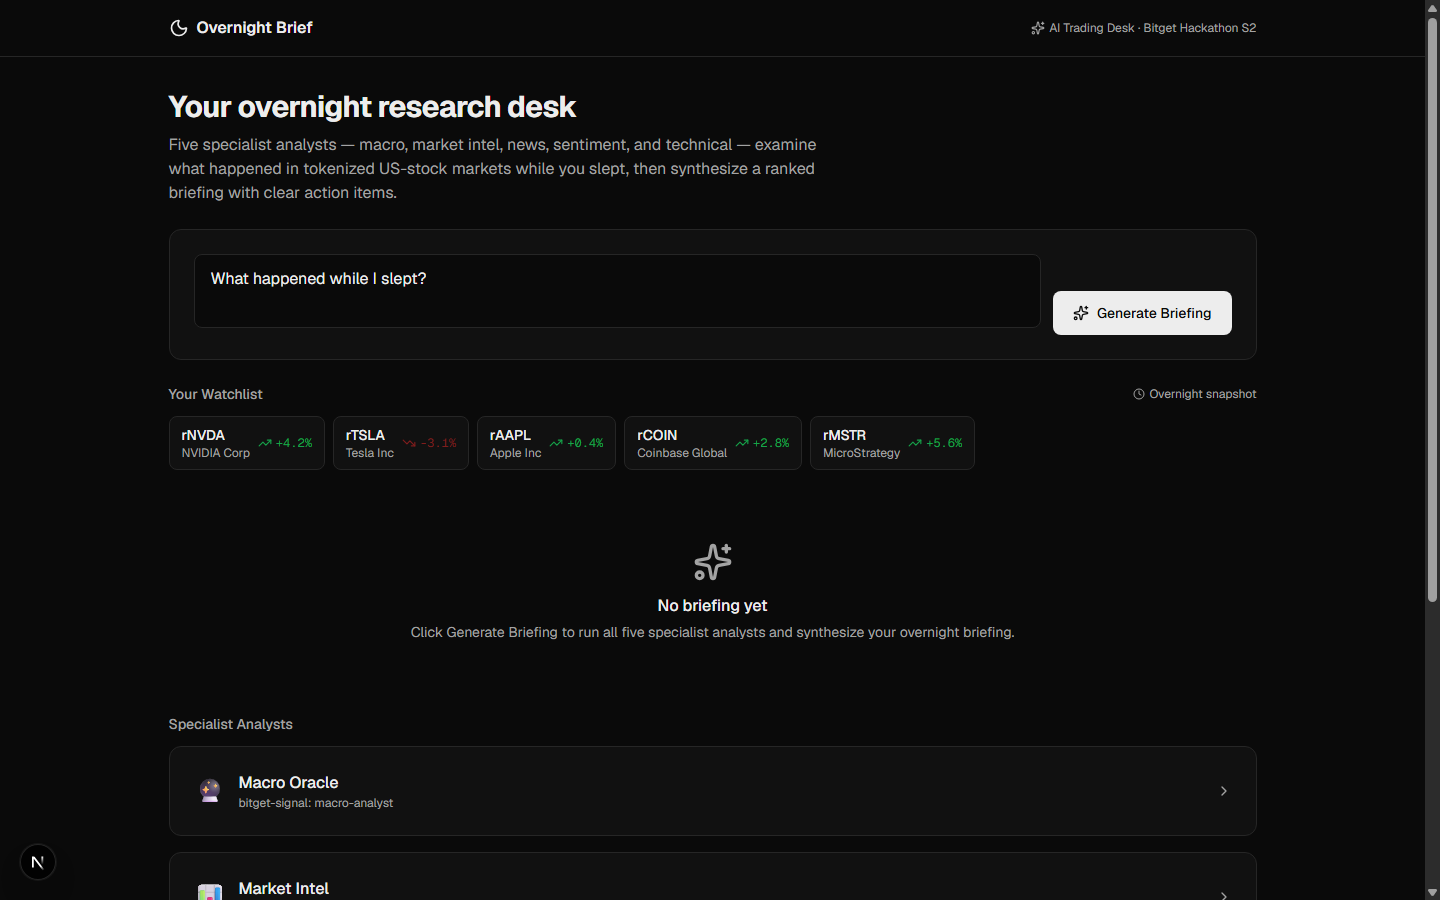
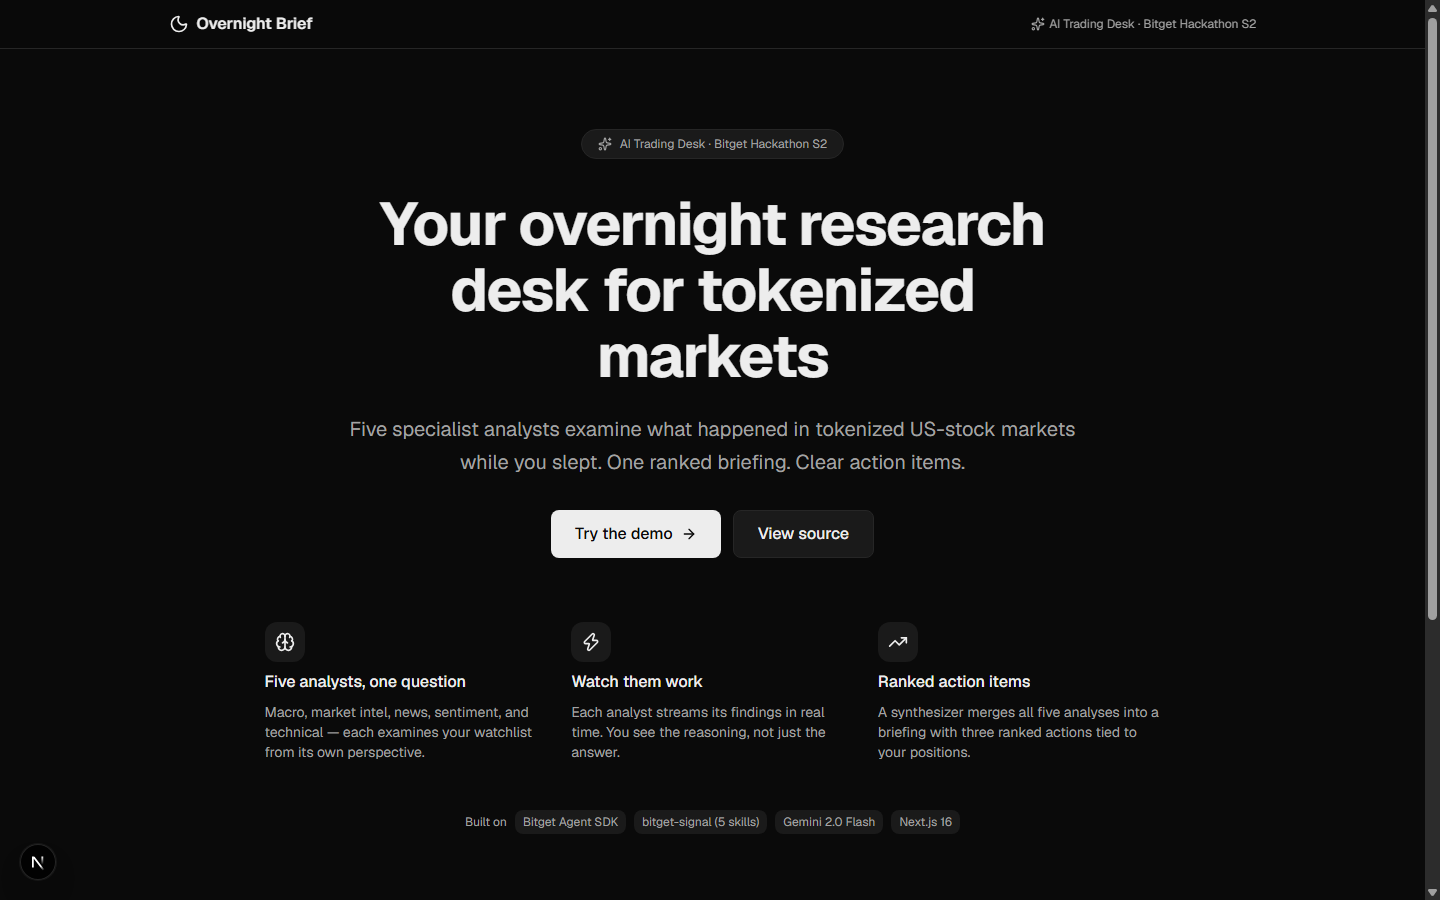
Landing section with hero, how-it-works, and hero↔app transition.
- Hero with headline, subhead, "Try the demo" CTA, and 3-step how-it-works
- Both hero and workbench server-rendered; transition is CSS opacity+transform only
- URL reflects state via ?app=1; direct arrival renders tool with no hero flash
- Logo click returns to hero; back button supported via popstate listener
- prefers-reduced-motion gives instant swap (globals.css)
- Updated hero screenshot showing landing page

Generated with [Devin](https://devin.ai)

diff --git a/src/components/landing-shell.tsx b/src/components/landing-shell.tsx
@@ -1,0 +1,203 @@
+"use client";
+
+import { useState, useEffect, useCallback } from "react";
+import { Moon, Sparkles, ArrowRight, TrendingUp, Brain, Zap } from "lucide-react";
+import { cn } from "@/lib/utils";
+import { Button } from "@/components/ui";
+
+// ─── Hero section ─────────────────────────────────────────────────
+
+function Hero({ onTryDemo }: { onTryDemo: () => void }) {
+  return (
+    <div className="flex flex-col items-center gap-8 py-12 sm:py-20 text-center">
+      {/* Badge */}
+      <div className="inline-flex items-center gap-2 rounded-full border border-border bg-muted px-4 py-1.5 text-xs text-muted-foreground">
+        <Sparkles className="h-3.5 w-3.5" aria-hidden="true" />
+        <span>AI Trading Desk · Bitget Hackathon S2</span>
+      </div>
+
+      {/* Headline */}
+      <div className="max-w-3xl">
+        <h1 className="text-4xl sm:text-5xl lg:text-6xl font-bold tracking-tight text-foreground leading-[1.1]">
+          Your overnight research desk for tokenized markets
+        </h1>
+        <p className="mt-6 text-lg sm:text-xl text-muted-foreground leading-relaxed">
+          Five specialist analysts examine what happened in tokenized US-stock
+          markets while you slept. One ranked briefing. Clear action items.
+        </p>
+      </div>
+
+      {/* CTA */}
+      <div className="flex flex-col sm:flex-row items-center gap-3">
+        <Button size="lg" onClick={onTryDemo} className="w-full sm:w-auto">
+          Try the demo
+          <ArrowRight className="h-4 w-4" aria-hidden="true" />
+        </Button>
+        <a
+          href="https://github.com/DruxAMB/overnight-brief"
+          target="_blank"
+          rel="noopener noreferrer"
+          className="w-full sm:w-auto"
+        >
+          <Button variant="secondary" size="lg" className="w-full">
+            View source
+          </Button>
+        </a>
+      </div>
+
+      {/* How it works */}
+      <div className="mt-8 w-full max-w-4xl">
+        <div className="grid gap-6 sm:grid-cols-3 text-left">
+          <div className="flex flex-col gap-2">
+            <div className="flex h-10 w-10 items-center justify-center rounded-lg bg-muted">
+              <Brain className="h-5 w-5 text-foreground" aria-hidden="true" />
+            </div>
+            <h3 className="font-medium text-foreground">Five analysts, one question</h3>
+            <p className="text-sm text-muted-foreground">
+              Macro, market intel, news, sentiment, and technical — each examines
+              your watchlist from its own perspective.
+            </p>
+          </div>
+          <div className="flex flex-col gap-2">
+            <div className="flex h-10 w-10 items-center justify-center rounded-lg bg-muted">
+              <Zap className="h-5 w-5 text-foreground" aria-hidden="true" />
+            </div>
+            <h3 className="font-medium text-foreground">Watch them work</h3>
+            <p className="text-sm text-muted-foreground">
+              Each analyst streams its findings in real time. You see the
+              reasoning, not just the answer.
+            </p>
+          </div>
+          <div className="flex flex-col gap-2">
+            <div className="flex h-10 w-10 items-center justify-center rounded-lg bg-muted">
+              <TrendingUp className="h-5 w-5 text-foreground" aria-hidden="true" />
+            </div>
+            <h3 className="font-medium text-foreground">Ranked action items</h3>
+            <p className="text-sm text-muted-foreground">
+              A synthesizer merges all five analyses into a briefing with
+              three ranked actions tied to your positions.
+            </p>
+          </div>
+        </div>
+      </div>
+
+      {/* Tech stack */}
+      <div className="mt-4 flex flex-wrap items-center justify-center gap-2 text-xs text-muted-foreground">
+        <span>Built on</span>
+        <span className="rounded-md bg-muted px-2 py-1">Bitget Agent SDK</span>
+        <span className="rounded-md bg-muted px-2 py-1">bitget-signal (5 skills)</span>
+        <span className="rounded-md bg-muted px-2 py-1">Gemini 2.0 Flash</span>
+        <span className="rounded-md bg-muted px-2 py-1">Next.js 16</span>
+      </div>
+    </div>
+  );
+}
+
+// ─── Landing shell — manages hero ↔ app transition ────────────────
+// Both hero and workbench are server-rendered. The transition is purely
+// visual (opacity + transform). URL reflects state via ?app=1.
+// Direct arrival at /?app=1 renders the tool with no hero flash.
+
+export function LandingShell({
+  initialApp,
+  children,
+}: {
+  initialApp: boolean;
+  children: React.ReactNode;
+}) {
+  const [showApp, setShowApp] = useState(initialApp);
+
+  // Sync with URL changes (back/forward buttons)
+  useEffect(() => {
+    const handler = () => {
+      const params = new URLSearchParams(window.location.search);
+      setShowApp(params.has("app"));
+    };
+    window.addEventListener("popstate", handler);
+    return () => window.removeEventListener("popstate", handler);
+  }, []);
+
+  const goToApp = useCallback(() => {
+    setShowApp(true);
+    const url = new URL(window.location.href);
+    url.searchParams.set("app", "1");
+    window.history.pushState({}, "", url);
+  }, []);
+
+  const goToHero = useCallback(() => {
+    setShowApp(false);
+    const url = new URL(window.location.href);
+    url.searchParams.delete("app");
+    window.history.pushState({}, "", url);
+  }, []);
+
+  return (
+    <div className="flex flex-col min-h-[100dvh] bg-background">
+      {/* Header — always visible, logo returns to hero */}
+      <header className="border-b border-border sticky top-0 z-10 bg-background/95 backdrop-blur">
+        <div className="mx-auto w-full max-w-6xl px-4 sm:px-6 lg:px-8 py-3">
+          <div className="flex items-center justify-between">
+            <button
+              onClick={goToHero}
+              className="flex items-center gap-2 transition-opacity hover:opacity-80"
+              aria-label="Overnight Brief — back to home"
+            >
+              <Moon className="h-5 w-5 text-primary" aria-hidden="true" />
+              <span className="font-semibold text-foreground">Overnight Brief</span>
+            </button>
+            <div className="flex items-center gap-1 text-xs text-muted-foreground">
+              <Sparkles className="h-3.5 w-3.5" aria-hidden="true" />
+              <span className="hidden sm:inline">AI Trading Desk · Bitget Hackathon S2</span>
+              <span className="sm:hidden">Bitget S2</span>
+            </div>
+          </div>
+        </div>
+      </header>
+
+      {/* Hero — hidden when app is active */}
+      <div
+        className={cn(
+          "transition-all duration-300 ease-out",
+          showApp
+            ? "opacity-0 -translate-y-4 pointer-events-none absolute inset-0"
+            : "opacity-100 translate-y-0",
+        )}
+        aria-hidden={showApp}
+      >
+        <div className="mx-auto w-full max-w-6xl px-4 sm:px-6 lg:px-8">
+          <Hero onTryDemo={goToApp} />
+        </div>
+      </div>
+
+      {/* Workbench — hidden when hero is active, but in the DOM */}
+      <div
+        className={cn(
+          "transition-all duration-300 ease-out",
+          showApp
+            ? "opacity-100 translate-y-0"
+            : "opacity-0 translate-y-4 pointer-events-none absolute inset-0",
+        )}
+        aria-hidden={!showApp}
+      >
+        <main className="flex-1 py-6 sm:py-8">
+          <div className="mx-auto w-full max-w-6xl px-4 sm:px-6 lg:px-8">
+            <div className="flex flex-col gap-6">
+              <div>
+                <h1 className="text-2xl sm:text-3xl font-bold tracking-tight text-foreground">
+                  Your overnight research desk
+                </h1>
+                <p className="mt-2 text-base text-muted-foreground max-w-2xl">
+                  Five specialist analysts — macro, market intel, news,
+                  sentiment, and technical — examine what happened in tokenized
+                  US-stock markets while you slept, then synthesize a ranked
+                  briefing with clear action items.
+                </p>
+              </div>
+              {children}
+            </div>
+          </div>
+        </main>
+      </div>
+    </div>
+  );
+}

diff --git a/src/app/page.tsx b/src/app/page.tsx
@@ -1,44 +1,17 @@
-import { PageShell, Container, Stack } from "@/components/layout";
+import { LandingShell } from "@/components/landing-shell";
 import { Workbench } from "@/components/workbench";
-import { Moon, Sparkles } from "lucide-react";
 
-export default function Home() {
+export default async function Home({
+  searchParams,
+}: {
+  searchParams: Promise<{ app?: string }>;
+}) {
+  const params = await searchParams;
+  const initialApp = params.app === "1";
+
   return (
-    <PageShell>
-      {/* Minimal header — landing section comes in P5 */}
-      <header className="border-b border-border">
-        <Container className="py-4">
-          <div className="flex items-center justify-between">
-            <div className="flex items-center gap-2">
-              <Moon className="h-5 w-5 text-primary" aria-hidden="true" />
-              <span className="font-semibold text-foreground">Overnight Brief</span>
-            </div>
-            <div className="flex items-center gap-1 text-xs text-muted-foreground">
-              <Sparkles className="h-3.5 w-3.5" aria-hidden="true" />
-              <span>AI Trading Desk · Bitget Hackathon S2</span>
-            </div>
-          </div>
-        </Container>
-      </header>
-
-      {/* Workbench */}
-      <main className="flex-1 py-6 sm:py-8">
-        <Container>
-          <Stack gap="lg">
-            <div>
-              <h1 className="text-2xl sm:text-3xl font-bold tracking-tight text-foreground">
-                Your overnight research desk
-              </h1>
-              <p className="mt-2 text-base text-muted-foreground max-w-2xl">
-                Five specialist analysts — macro, market intel, news, sentiment, and technical —
-                examine what happened in tokenized US-stock markets while you slept, then synthesize
-                a ranked briefing with clear action items.
-              </p>
-            </div>
-            <Workbench />
-          </Stack>
-        </Container>
-      </main>
-    </PageShell>
+    <LandingShell initialApp={initialApp}>
+      <Workbench />
+    </LandingShell>
   );
 }
